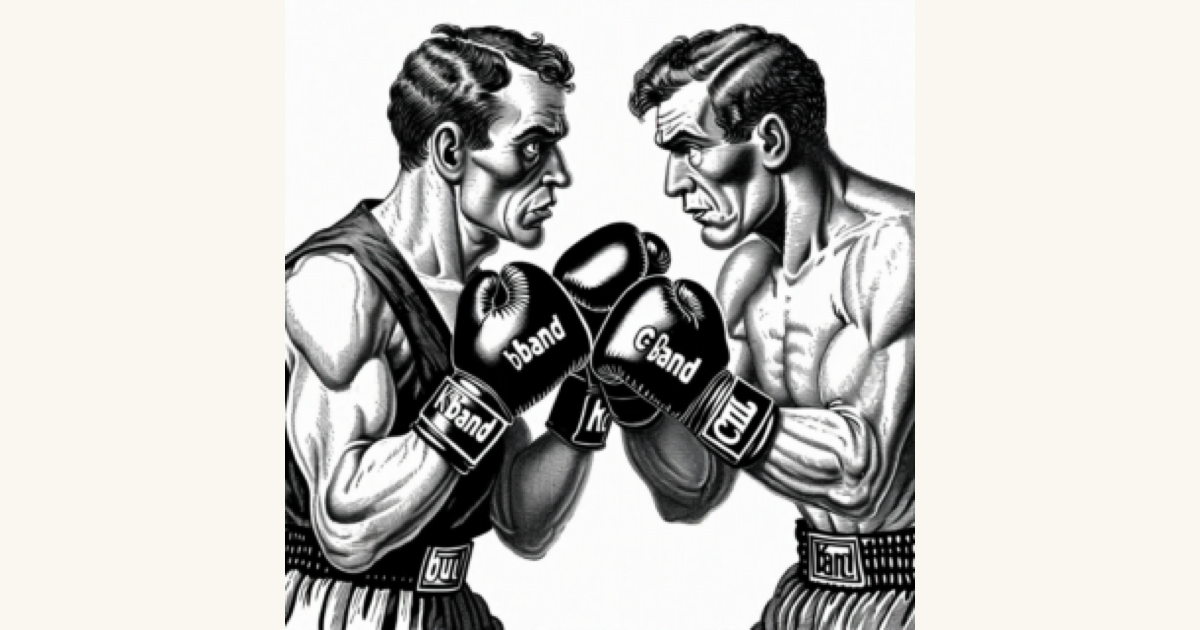
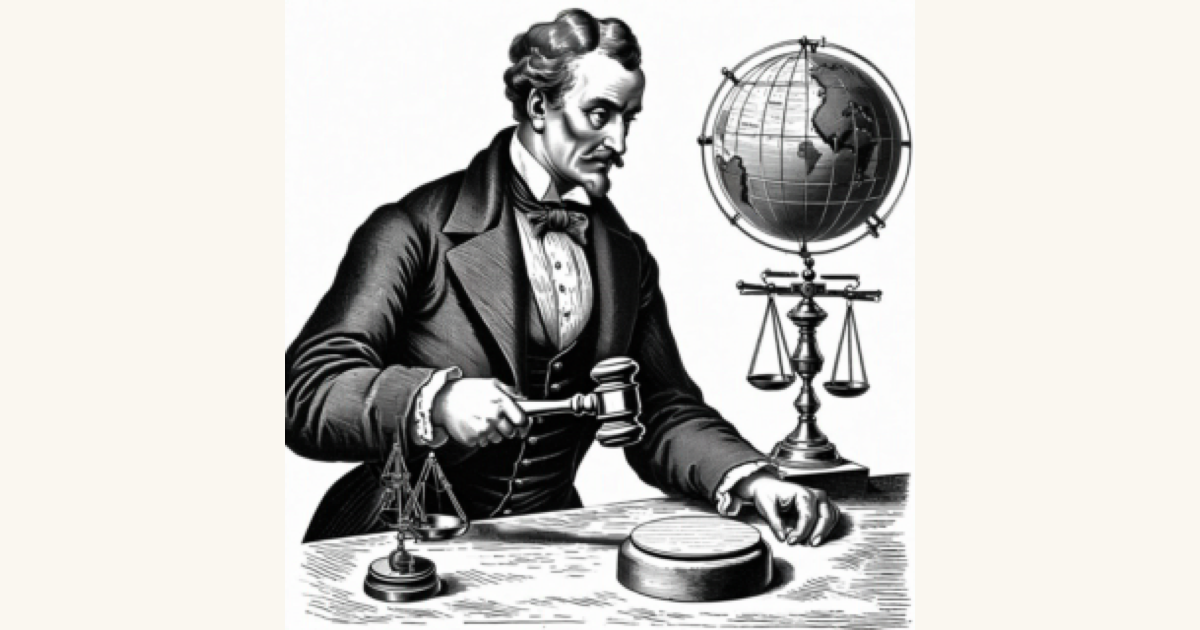
feat(deploy): proxy /ads/* through CloudFront to API origin
The house ad export routes are mounted on the API server outside /api/*
so they could be served from the apex domain (dailyorbit.org/ads/...).
But the apex is CloudFront-only — until now those URLs returned the SPA
shell. Adds a CloudFront cache behavior for /ads/* that origin-pulls
from api.dailyorbit.org via HTTPS, so the public URLs work as designed.

Also pins the og:image absolute URL to the configured appBaseUrl rather
than the inbound request URL, since CloudFront proxies pass through
with Host: api.dailyorbit.org and we want the og tag to reference the
canonical apex domain.

Swaps og-card.png to the orbital-politics gentleman house ad.

diff --git a/packages/server/src/newspaper/ad-export-routes.ts b/packages/server/src/newspaper/ad-export-routes.ts
@@ -36,6 +36,14 @@ export type AdExportDeps = {
   lookupAd(id: number): Promise<AdExportRecord | null>;
   /** Return the configured base destination URL for the click target. */
   getDestinationBaseUrl(): string;
+  /**
+   * Return the public-facing app base URL (e.g. `https://dailyorbit.org`).
+   * Used to build the absolute `og:image` URL so the value is independent
+   * of which host the request happens to arrive on (CloudFront proxies the
+   * request through with `Host: api.dailyorbit.org`, but we want the og
+   * tags to reference the canonical apex domain).
+   */
+  getAppBaseUrl(): string;
 };
 
 /**
@@ -58,11 +66,16 @@ function canonicalSlugFor(record: AdExportRecord): string {
   return slugify(record.tagline);
 }
 
-function absoluteImageUrl(reqUrl: string, id: number, slug: string): string {
-  // Use the inbound request URL to derive scheme + host so dev (localhost)
-  // and prod both work without extra config.
-  const u: URL = new URL(reqUrl);
-  return `${u.origin}/ads/${String(id)}-${slug}.webp`;
+function absoluteImageUrl(
+  appBaseUrl: string,
+  id: number,
+  slug: string,
+): string {
+  // Pinned to the configured public app base URL — never the inbound
+  // request URL — so og:image always references the apex domain even
+  // when the request is proxied through a different host (CloudFront).
+  const origin: string = new URL(appBaseUrl).origin;
+  return `${origin}/ads/${String(id)}-${slug}.webp`;
 }
 
 export function createAdExportRoutes(deps: AdExportDeps): Hono {
@@ -93,7 +106,11 @@ export function createAdExportRoutes(deps: AdExportDeps): Hono {
         deps.getDestinationBaseUrl(),
         record.id,
       ),
-      absoluteImageUrl: absoluteImageUrl(c.req.url, record.id, canonical),
+      absoluteImageUrl: absoluteImageUrl(
+        deps.getAppBaseUrl(),
+        record.id,
+        canonical,
+      ),
     });
 
     return new Response(html, {

diff --git a/deploy/lib/stack.ts b/deploy/lib/stack.ts
@@ -359,6 +359,19 @@ function handler(event) {
             cachePolicy: cloudfront.CachePolicy.CACHING_OPTIMIZED,
             compress: true,
           },
+          // Reverse-proxy /ads/* to the API server so the public house-ad
+          // export URLs live under the apex domain (dailyorbit.org/ads/...)
+          // instead of the API host. The API mounts these routes at /ads/*
+          // outside /api/* so the path passes through unchanged.
+          "ads/*": {
+            origin: new origins.HttpOrigin("api.dailyorbit.org", {
+              protocolPolicy: cloudfront.OriginProtocolPolicy.HTTPS_ONLY,
+            }),
+            viewerProtocolPolicy:
+              cloudfront.ViewerProtocolPolicy.REDIRECT_TO_HTTPS,
+            cachePolicy: cloudfront.CachePolicy.CACHING_OPTIMIZED,
+            compress: true,
+          },
         },
         domainNames: [config.domainName],
         certificate: cloudfrontCert,

diff --git a/packages/server/src/app.ts b/packages/server/src/app.ts
@@ -126,6 +126,7 @@ app.route(
     },
     getDestinationBaseUrl: () =>
       getConfigService().get('houseAdDestinationUrl') as string,
+    getAppBaseUrl: () => getConfigService().get('appBaseUrl') as string,
   }),
 );
 app.route('/api/query', queryRoutes);

diff --git a/packages/server/src/newspaper/ad-export-routes.test.ts b/packages/server/src/newspaper/ad-export-routes.test.ts
@@ -40,6 +40,7 @@ beforeAll(async () => {
       return null;
     },
     getDestinationBaseUrl: () => 'https://dailyorbit.org/',
+    getAppBaseUrl: () => 'https://dailyorbit.org',
   };
 
   app = new Hono();
